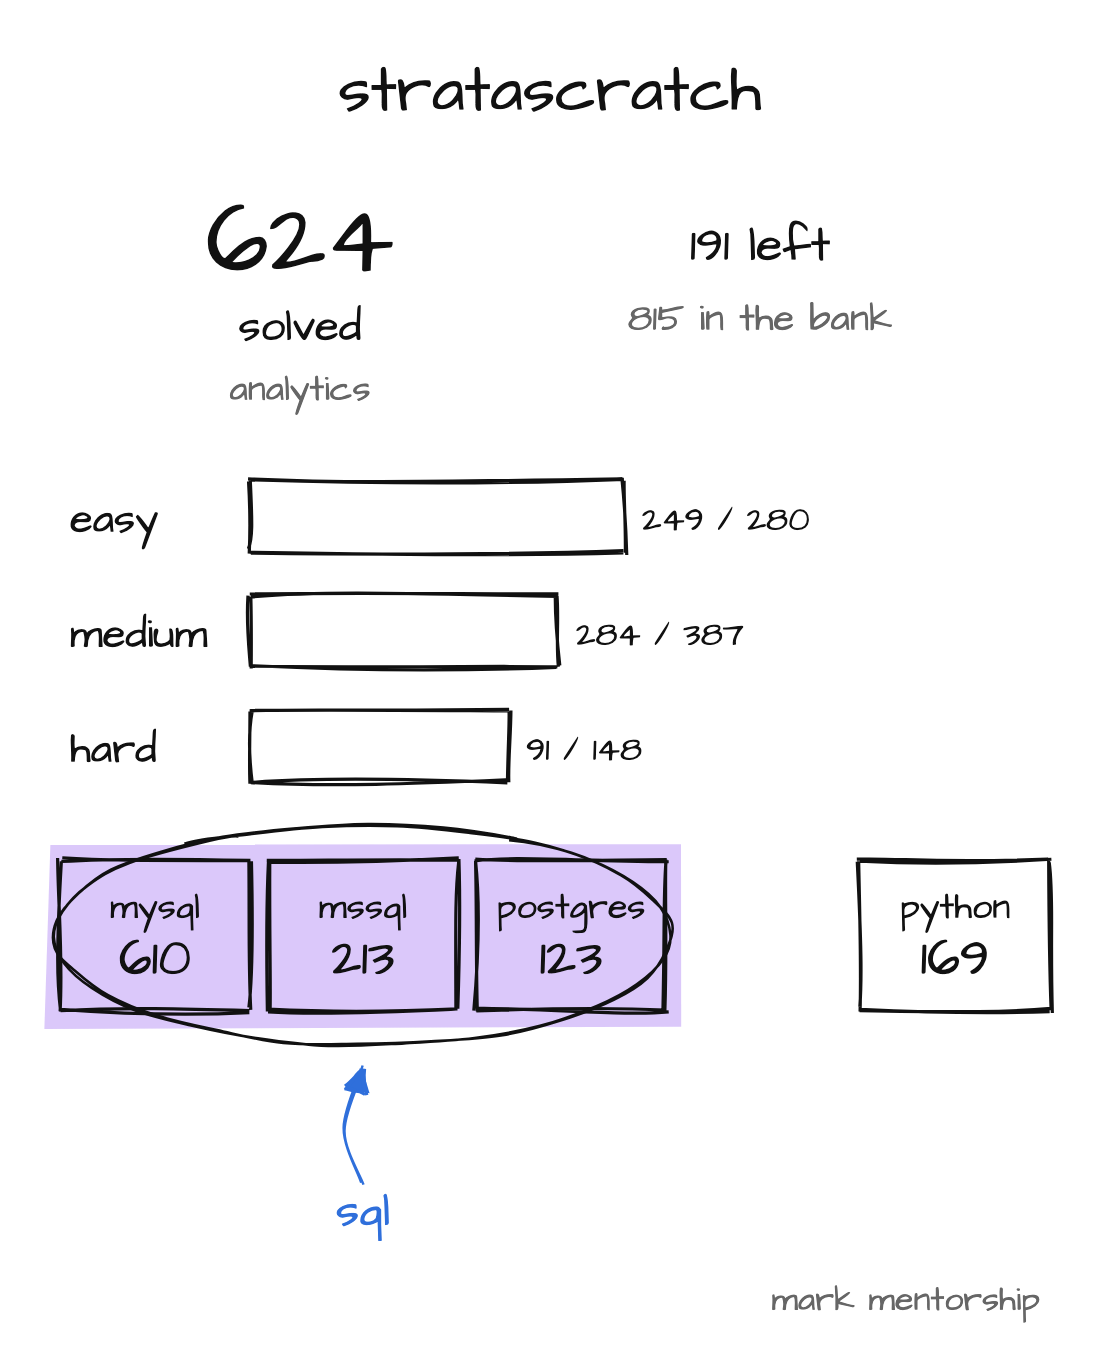
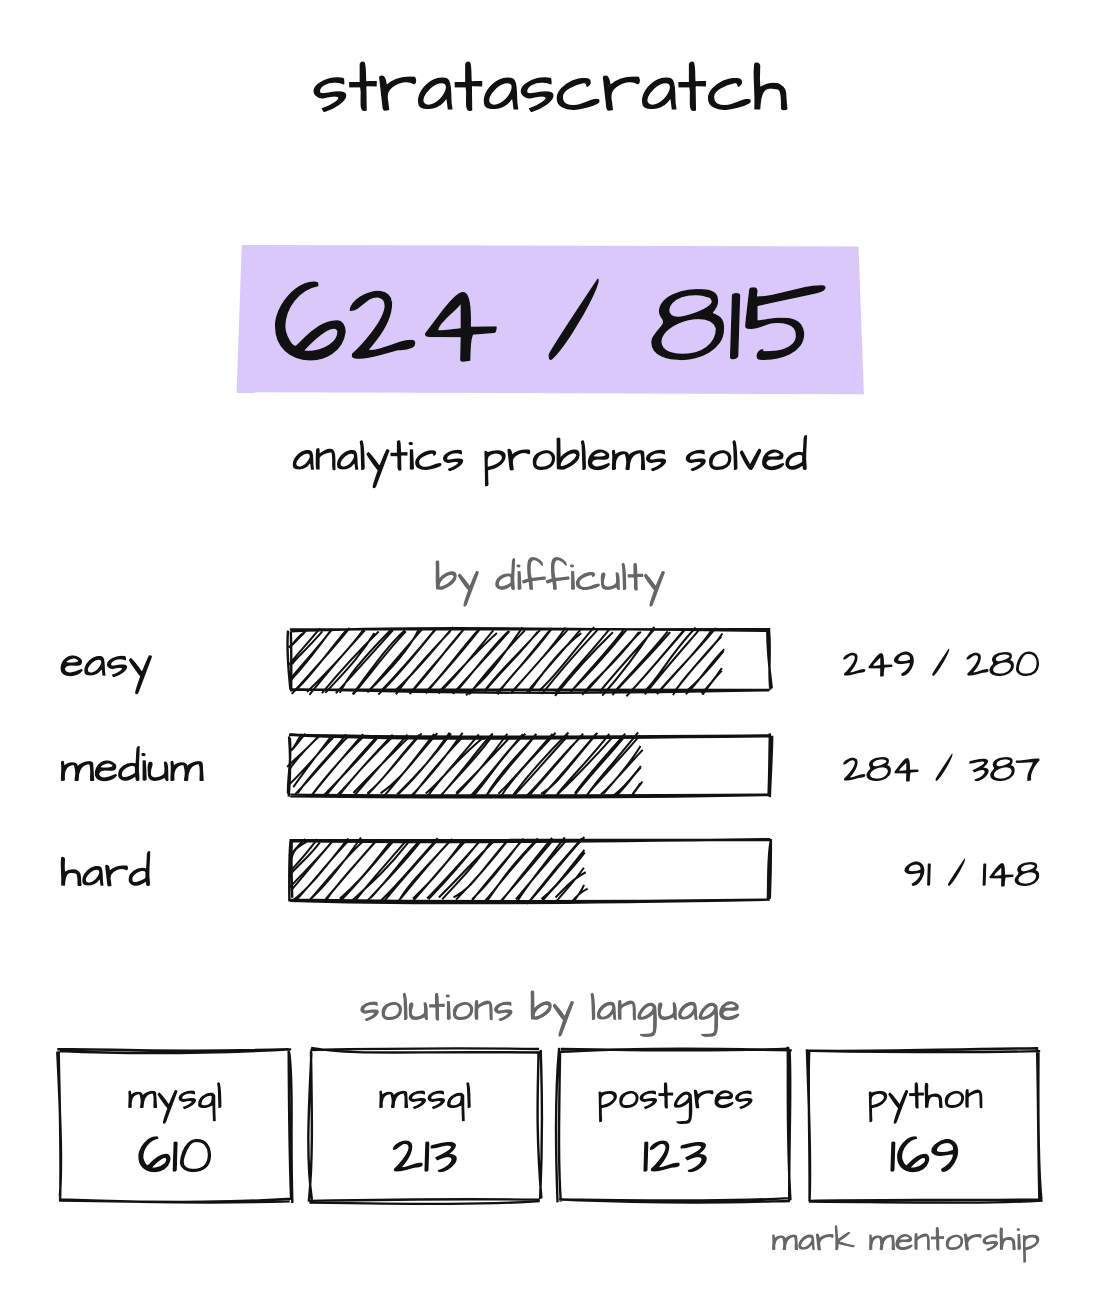
Redraw the SQL scoreboards as a matched pair.
Both lead with the SQL count, share one layout and size, and drop the phone cuts.

diff --git a/drawing/sql-ss.js b/drawing/sql-ss.js
@@ -1,45 +1,25 @@
-// stratascratch coding rating, snapshot from the profile.
-// 624 solved = 249 + 284 + 91. the bank is 815, so 191 are still open.
+// stratascratch scoreboard. same layout as sql-lc.js so the pair lines up.
+// 624 solved = 249 + 284 + 91, out of 815 analytics questions.
 // language counts overlap: one question can be solved in more than one dialect.
-// the violet swipe and the circle mark the three sql dialects. python stays outside.
-text('stratascratch', 550, 110, 64);
+text('stratascratch', 550, 110, 72);
+highlight(240, 245, 620, 150);
+text('624 / 815', 550, 360, 120);
+text('analytics problems solved', 550, 470, 44);
 
-text('624', 300, 270, 100);
-text('solved', 300, 340, 44);
-text('analytics', 300, 400, 36, 'middle', '#666');
-text('191 left', 760, 260, 48);
-text('815 in the bank', 760, 330, 38, 'middle', '#666');
-
-const bars = [
-  ['easy', '249 / 280', 249 / 280],
-  ['medium', '284 / 387', 284 / 387],
-  ['hard', '91 / 148', 91 / 148],
-];
-bars.forEach((b, i) => {
-  const y = 480 + i * 115;
-  const w = Math.round(420 * b[2]);
-  text(b[0], 70, y + 52, 42, 'start');
-  rect(250, y, w, 72);
-  text(b[1], 250 + w + 18, y + 50, 34, 'start');
+text('by difficulty', 550, 590, 40, 'middle', '#666');
+[['easy', 249, 280], ['medium', 284, 387], ['hard', 91, 148]].forEach(([name, done, all], i) => {
+  const y = 630 + i * 105;
+  text(name, 60, y + 46, 44, 'start');
+  rect(290, y, 480, 60, {strokeWidth: 2.4});
+  rect(290, y, Math.round(480 * done / all), 60, {stroke: 'none', fill: INK, fillStyle: 'hachure', hachureGap: 11, fillWeight: 2});
+  text(`${done} / ${all}`, 1040, y + 46, 40, 'end');
 });
 
-const langs = [['mysql', '610'], ['mssql', '213'], ['postgres', '123']];
-const cw = 190, ch = 150, gap = 18;
-const lx = 60, ly = 860;
-highlight(lx - 14, ly - 16, 3 * cw + 2 * gap + 28, ch + 32);
-langs.forEach((L, i) => {
-  const x = lx + i * (cw + gap);
-  rect(x, ly, cw, ch);
-  text(L[0], x + cw / 2, ly + 58, 36);
-  text(L[1], x + cw / 2, ly + 114, 52);
+text('solutions by language', 550, 1020, 40, 'middle', '#666');
+[['mysql', '610'], ['mssql', '213'], ['postgres', '123'], ['python', '169']].forEach(([name, n], i) => {
+  const x = 60 + i * 250;
+  rect(x, 1050, 230, 150, {strokeWidth: 2.4});
+  text(name, x + 115, 1108, 38);
+  text(n, x + 115, 1172, 54);
 });
-const py = 860;
-rect(py, ly, cw, ch);
-text('python', py + cw / 2, ly + 58, 36);
-text('169', py + cw / 2, ly + 114, 52);
-const gx = lx + (3 * cw + 2 * gap) / 2;
-const gy = ly + ch / 2;
-ell(gx, gy, 3 * cw + 2 * gap + 64, ch + 78, {strokeWidth: 2.6});
-arrow([[gx, ly + ch + 175], [gx - 20, ly + ch + 120], [gx, ly + ch + 58]], {strokeWidth: 2.4, stroke: BLUE});
-text('sql', gx, ly + ch + 215, 46, 'middle', BLUE);
 signature();

diff --git a/index.html b/index.html
@@ -111,18 +111,12 @@ j=d.createElement(s),dl=l!='dataLayer'?'&l='+l:'';j.async=true;j.src=
       </ul>
       <div class="sql-proof">
         <a href="https://platform.stratascratch.com/user/SmartPersonality1862" target="_blank" rel="noopener">
-          <picture class="drawing">
-            <source media="(max-width: 640px)" srcset="assets/img/sql-ss-m.png" width="1100" height="1780">
-            <img src="assets/img/sql-ss.png" alt="StrataScratch: 624 solved of 815, easy 249 of 280, medium 284 of 387, hard 91 of 148. MySQL 610, MSSQL 213 and Postgres 123 are circled as the SQL solutions. Python 169 is outside that group." width="1100" height="1360" loading="lazy">
-          </picture>
-          <span class="hand sql-cap">stratascratch</span>
+          <img class="drawing" src="assets/img/sql-ss.png" alt="StrataScratch: 624 of 815 analytics problems solved. Easy 249 of 280, medium 284 of 387, hard 91 of 148. Solutions by language: MySQL 610, MSSQL 213, Postgres 123, Python 169." width="1100" height="1300" loading="lazy">
+          <span class="hand sql-cap">see it on stratascratch</span>
         </a>
         <a href="https://leetcode.com/u/markphammm/" target="_blank" rel="noopener">
-          <picture class="drawing">
-            <source media="(max-width: 640px)" srcset="assets/img/sql-lc-m.png" width="1100" height="1960">
-            <img src="assets/img/sql-lc.png" alt="LeetCode: 772 solved of 4,115 across all problems, 9 still attempting. Easy 362 of 976, medium 334 of 2,148, hard 76 of 991. Database 318 of 323. 1,174 submissions, 155 active days, max streak 12, 100 days badge." width="1100" height="1700" loading="lazy">
-          </picture>
-          <span class="hand sql-cap">leetcode</span>
+          <img class="drawing" src="assets/img/sql-lc.png" alt="LeetCode: 318 of 323 database problems solved. All problems 772 of 4,115: easy 362 of 976, medium 334 of 2,148, hard 76 of 991. 1,174 submissions, 155 active days, max streak 12, 100 days badge." width="1100" height="1300" loading="lazy">
+          <span class="hand sql-cap">see it on leetcode</span>
         </a>
       </div>
       <figure id="contrib" class="contrib" hidden data-reveal>

diff --git a/drawing/sql-lc.js b/drawing/sql-lc.js
@@ -1,25 +1,25 @@
-// leetcode profile. 772 = 362 + 334 + 76, out of 4,115.
-// this is every problem on the site, so the label says so. not a sql count.
-text('leetcode', 550, 120, 68);
-text('772', 550, 310, 120);
-text('solved', 550, 390, 50);
-text('of 4,115', 550, 460, 40, 'middle', '#666');
-text('all problems', 550, 520, 40, 'middle', '#666');
-text('9 attempting', 550, 590, 40, 'middle', '#666');
+// leetcode scoreboard. same layout as sql-ss.js so the pair lines up.
+// the headline is the database set. the difficulty rows are all problems:
+// 772 = 362 + 334 + 76, out of 4,115.
+text('leetcode', 550, 110, 72);
+highlight(240, 245, 620, 150);
+text('318 / 323', 550, 360, 120);
+text('database problems solved', 550, 470, 44);
 
-const diffs = [['easy', '362 / 976'], ['medium', '334 / 2,148'], ['hard', '76 / 991']];
-diffs.forEach((d, i) => {
-  const y = 680 + i * 130;
-  text(d[0], 120, y + 58, 46, 'start');
-  rect(520, y, 460, 96);
-  text(d[1], 750, y + 64, 44);
+text('all problems: 772 / 4,115', 550, 590, 40, 'middle', '#666');
+[['easy', 362, 976], ['medium', 334, 2148], ['hard', 76, 991]].forEach(([name, done, all], i) => {
+  const y = 630 + i * 105;
+  text(name, 60, y + 46, 44, 'start');
+  rect(290, y, 480, 60, {strokeWidth: 2.4});
+  rect(290, y, Math.round(480 * done / all), 60, {stroke: 'none', fill: INK, fillStyle: 'hachure', hachureGap: 11, fillWeight: 2});
+  text(`${done} / ${all.toLocaleString('en-US')}`, 1040, y + 46, 40, 'end');
 });
 
-highlight(170, 1120, 760, 150);
-text('database', 550, 1180, 44);
-text('318 / 323', 550, 1240, 56);
-text('1,174 submissions', 550, 1360, 44);
-text('155 active days', 550, 1425, 40, 'middle', '#666');
-text('max streak 12', 550, 1485, 40, 'middle', '#666');
-text('100 days badge', 550, 1550, 40, 'middle', '#666');
+text('activity', 550, 1020, 40, 'middle', '#666');
+[['submits', '1,174'], ['days active', '155'], ['streak', '12'], ['badge', '100 days']].forEach(([name, n], i) => {
+  const x = 60 + i * 250;
+  rect(x, 1050, 230, 150, {strokeWidth: 2.4});
+  text(name, x + 115, 1108, name.length > 8 ? 34 : 38);
+  text(n, x + 115, 1172, n.length > 5 ? 42 : 54);
+});
 signature();

diff --git a/drawing/make.py b/drawing/make.py
@@ -6,7 +6,7 @@ NAME = sys.argv[1]
 SIZES = {'hero': (2000, 760), 'how': (2000, 900), 'note': (2000, 1000), 'offer': (2000, 1000), 'og': (1200, 630), 'square': (1600, 1600),
          'hero-m': (1100, 720), 'offer-m': (1100, 1000), 'note-m': (1100, 960), 'how-m': (1100, 980), 'portrait': (900, 1050),
          'projects': (2400, 1150), 'projects-m': (1100, 1930), 'findings': (2000, 1060), 'findings-m': (1100, 1000), 'explorer': (1600, 900),
-         'sql-ss': (1100, 1360), 'sql-lc': (1100, 1700), 'sql-ss-m': (1100, 1780), 'sql-lc-m': (1100, 1960),
+         'sql-ss': (1100, 1300), 'sql-lc': (1100, 1300),
          **{n: (1200, 675) for n in ['proj-skytrax', 'proj-delta', 'proj-frontier', 'proj-spirit', 'proj-local']}}
 W, H = SIZES[NAME]
 OUT = NAME + '.png'

diff --git a/README.md b/README.md
@@ -31,7 +31,7 @@ uv run --with playwright python3 make.py hero   # or: how, note, offer
 cp hero.png ../assets/img/
 ```
 
-Each drawing is a small JS file (`drawing/hero.js`, `how.js`, `note.js`, `offer.js`) rendered by `make.py`. Each of those four has a phone cut (`hero-m.js` and so on, 1100px wide with bigger labels) that `index.html` serves below 640px through `<picture>`; change both when you change one. `portrait.js` is the sketch in the about section; `projects.js` (the skytrax pipeline) and `findings.js` (the dashboard KPIs, snapshot 2026-07-30 from the skytrax_reviews README) also have `-m` cuts. `sql-ss.js` and `sql-lc.js` are the StrataScratch and LeetCode scoreboards under the SQL stat (with `-m` phone cuts); each image on the page links to that profile. `explorer.js` is the sketch on Tien's project card, standing in for a screenshot until his live explorer loads data again. The other card pictures are hand-drawn from each mentee repo's real numbers (`drawing/proj-*.js`), rendered by `make.py` and saved as `assets/img/proj-*.webp`.
+Each drawing is a small JS file (`drawing/hero.js`, `how.js`, `note.js`, `offer.js`) rendered by `make.py`. Each of those four has a phone cut (`hero-m.js` and so on, 1100px wide with bigger labels) that `index.html` serves below 640px through `<picture>`; change both when you change one. `portrait.js` is the sketch in the about section; `projects.js` (the skytrax pipeline) and `findings.js` (the dashboard KPIs, snapshot 2026-07-30 from the skytrax_reviews README) also have `-m` cuts. `sql-ss.js` and `sql-lc.js` are the StrataScratch and LeetCode scoreboards under the SQL stat. They share one layout and size, so change both together; each image on the page links to that profile. `explorer.js` is the sketch on Tien's project card, standing in for a screenshot until his live explorer loads data again. The other card pictures are hand-drawn from each mentee repo's real numbers (`drawing/proj-*.js`), rendered by `make.py` and saved as `assets/img/proj-*.webp`.
 
 ## Preview locally
 
